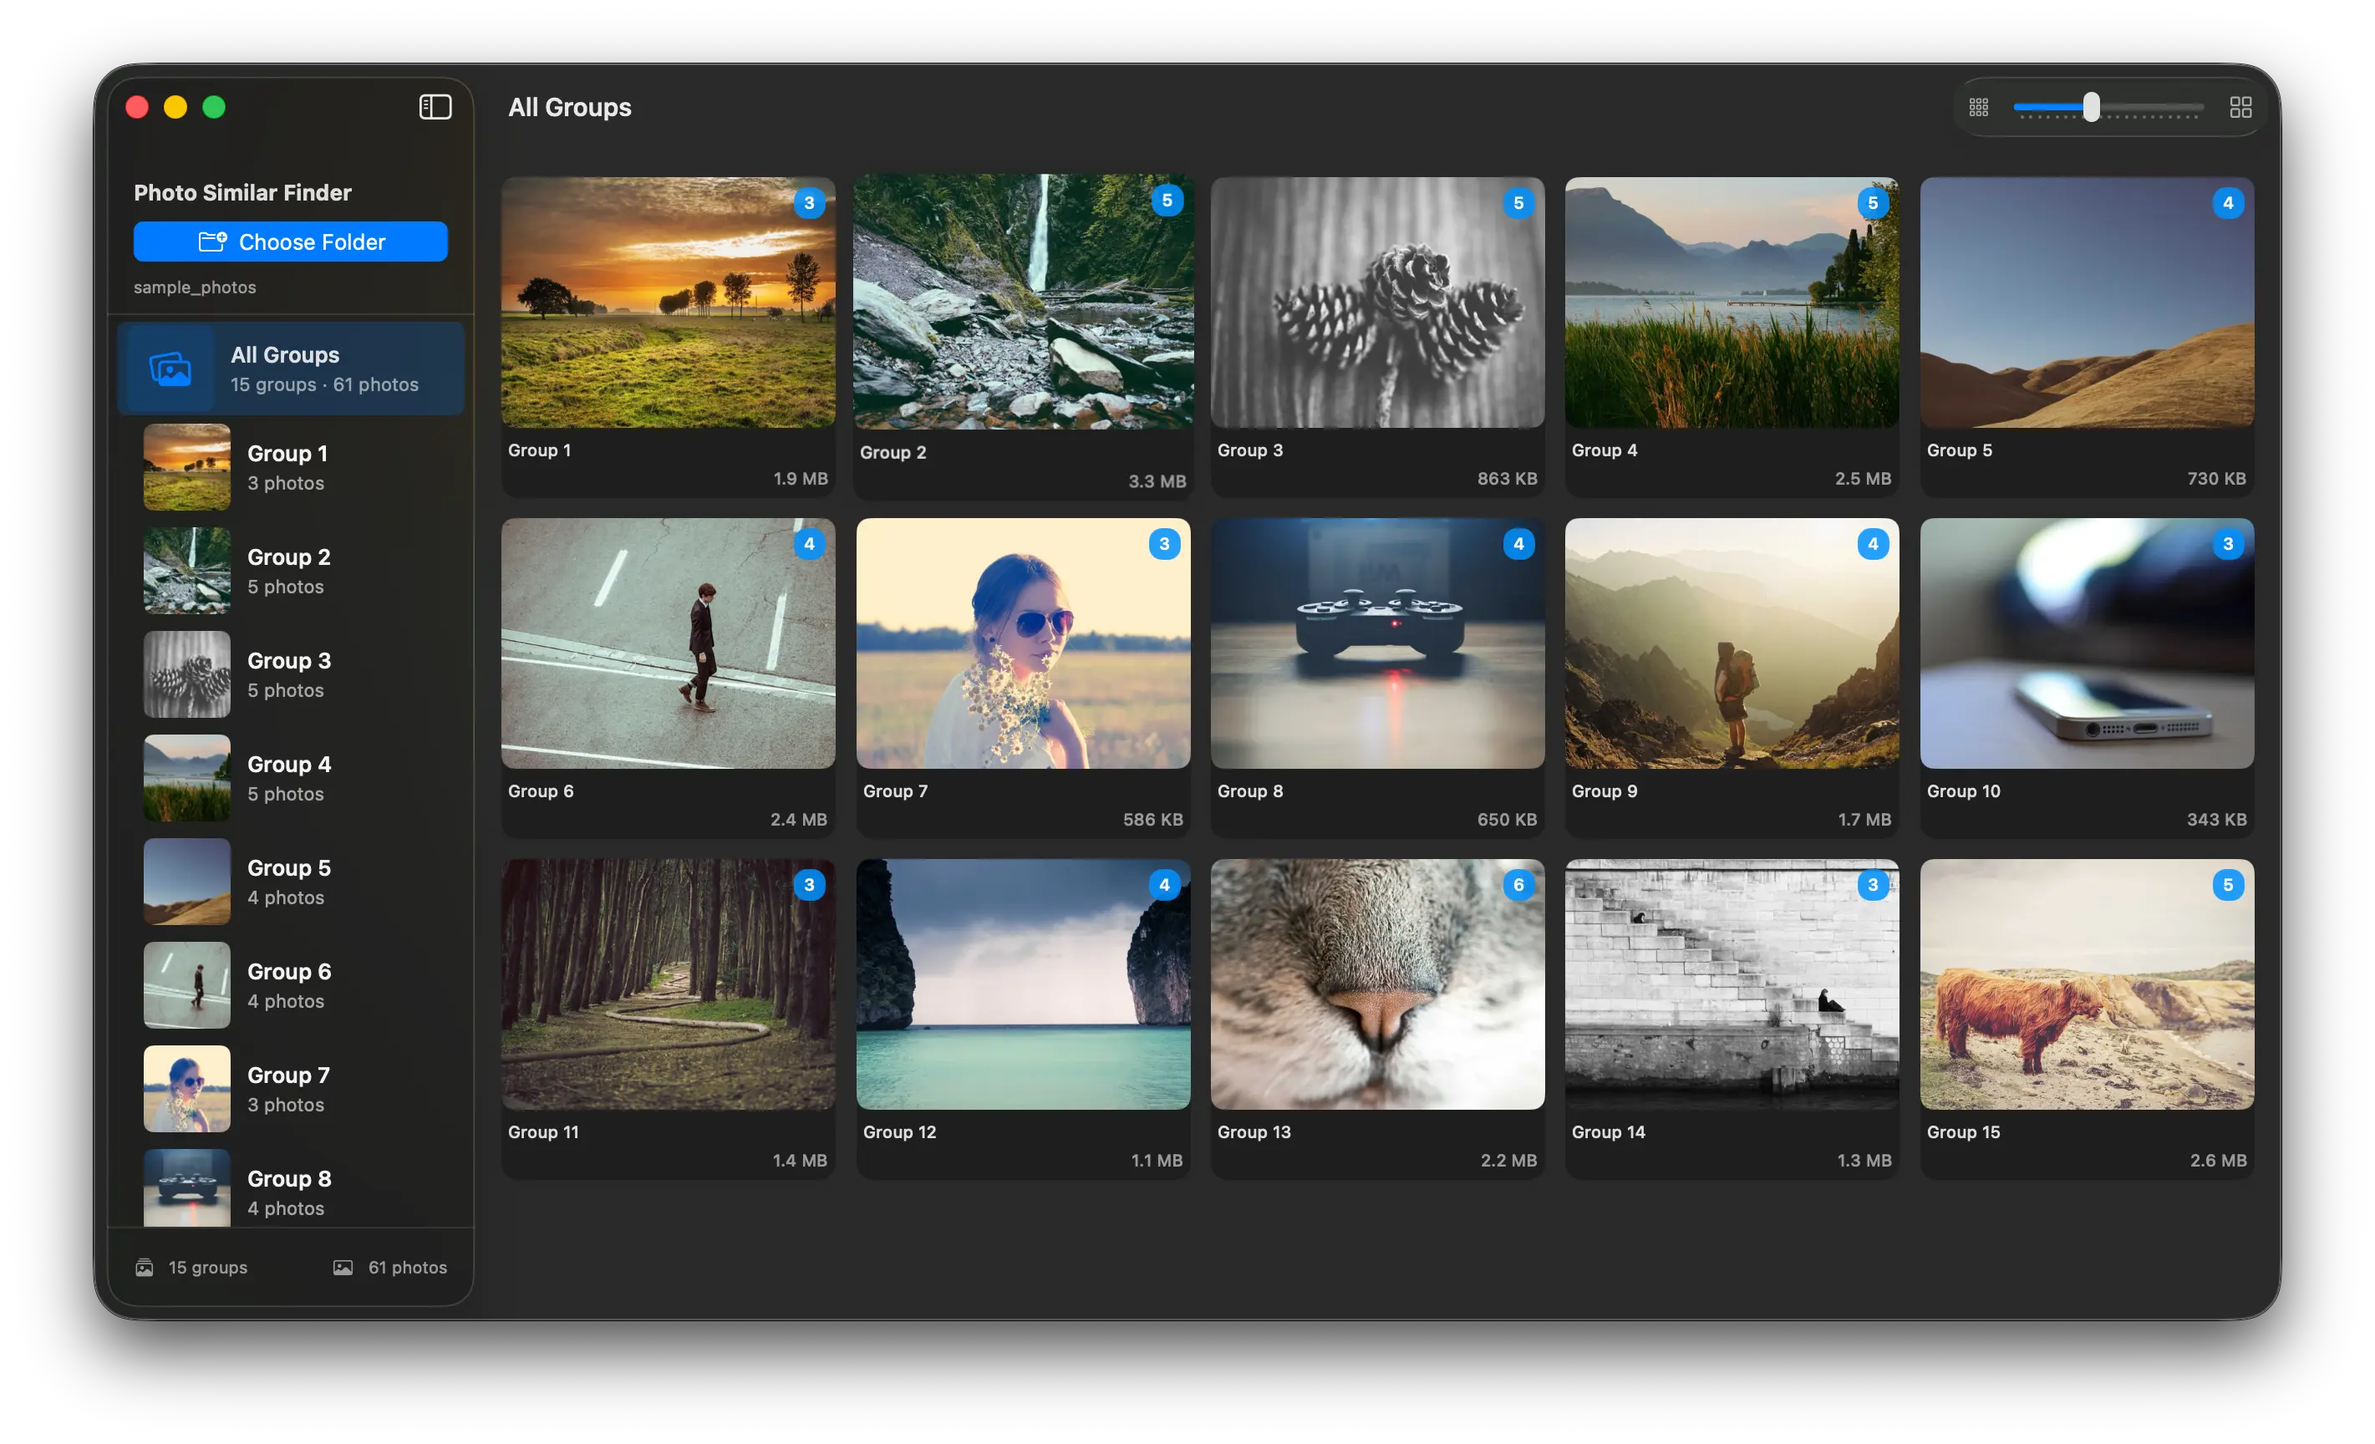
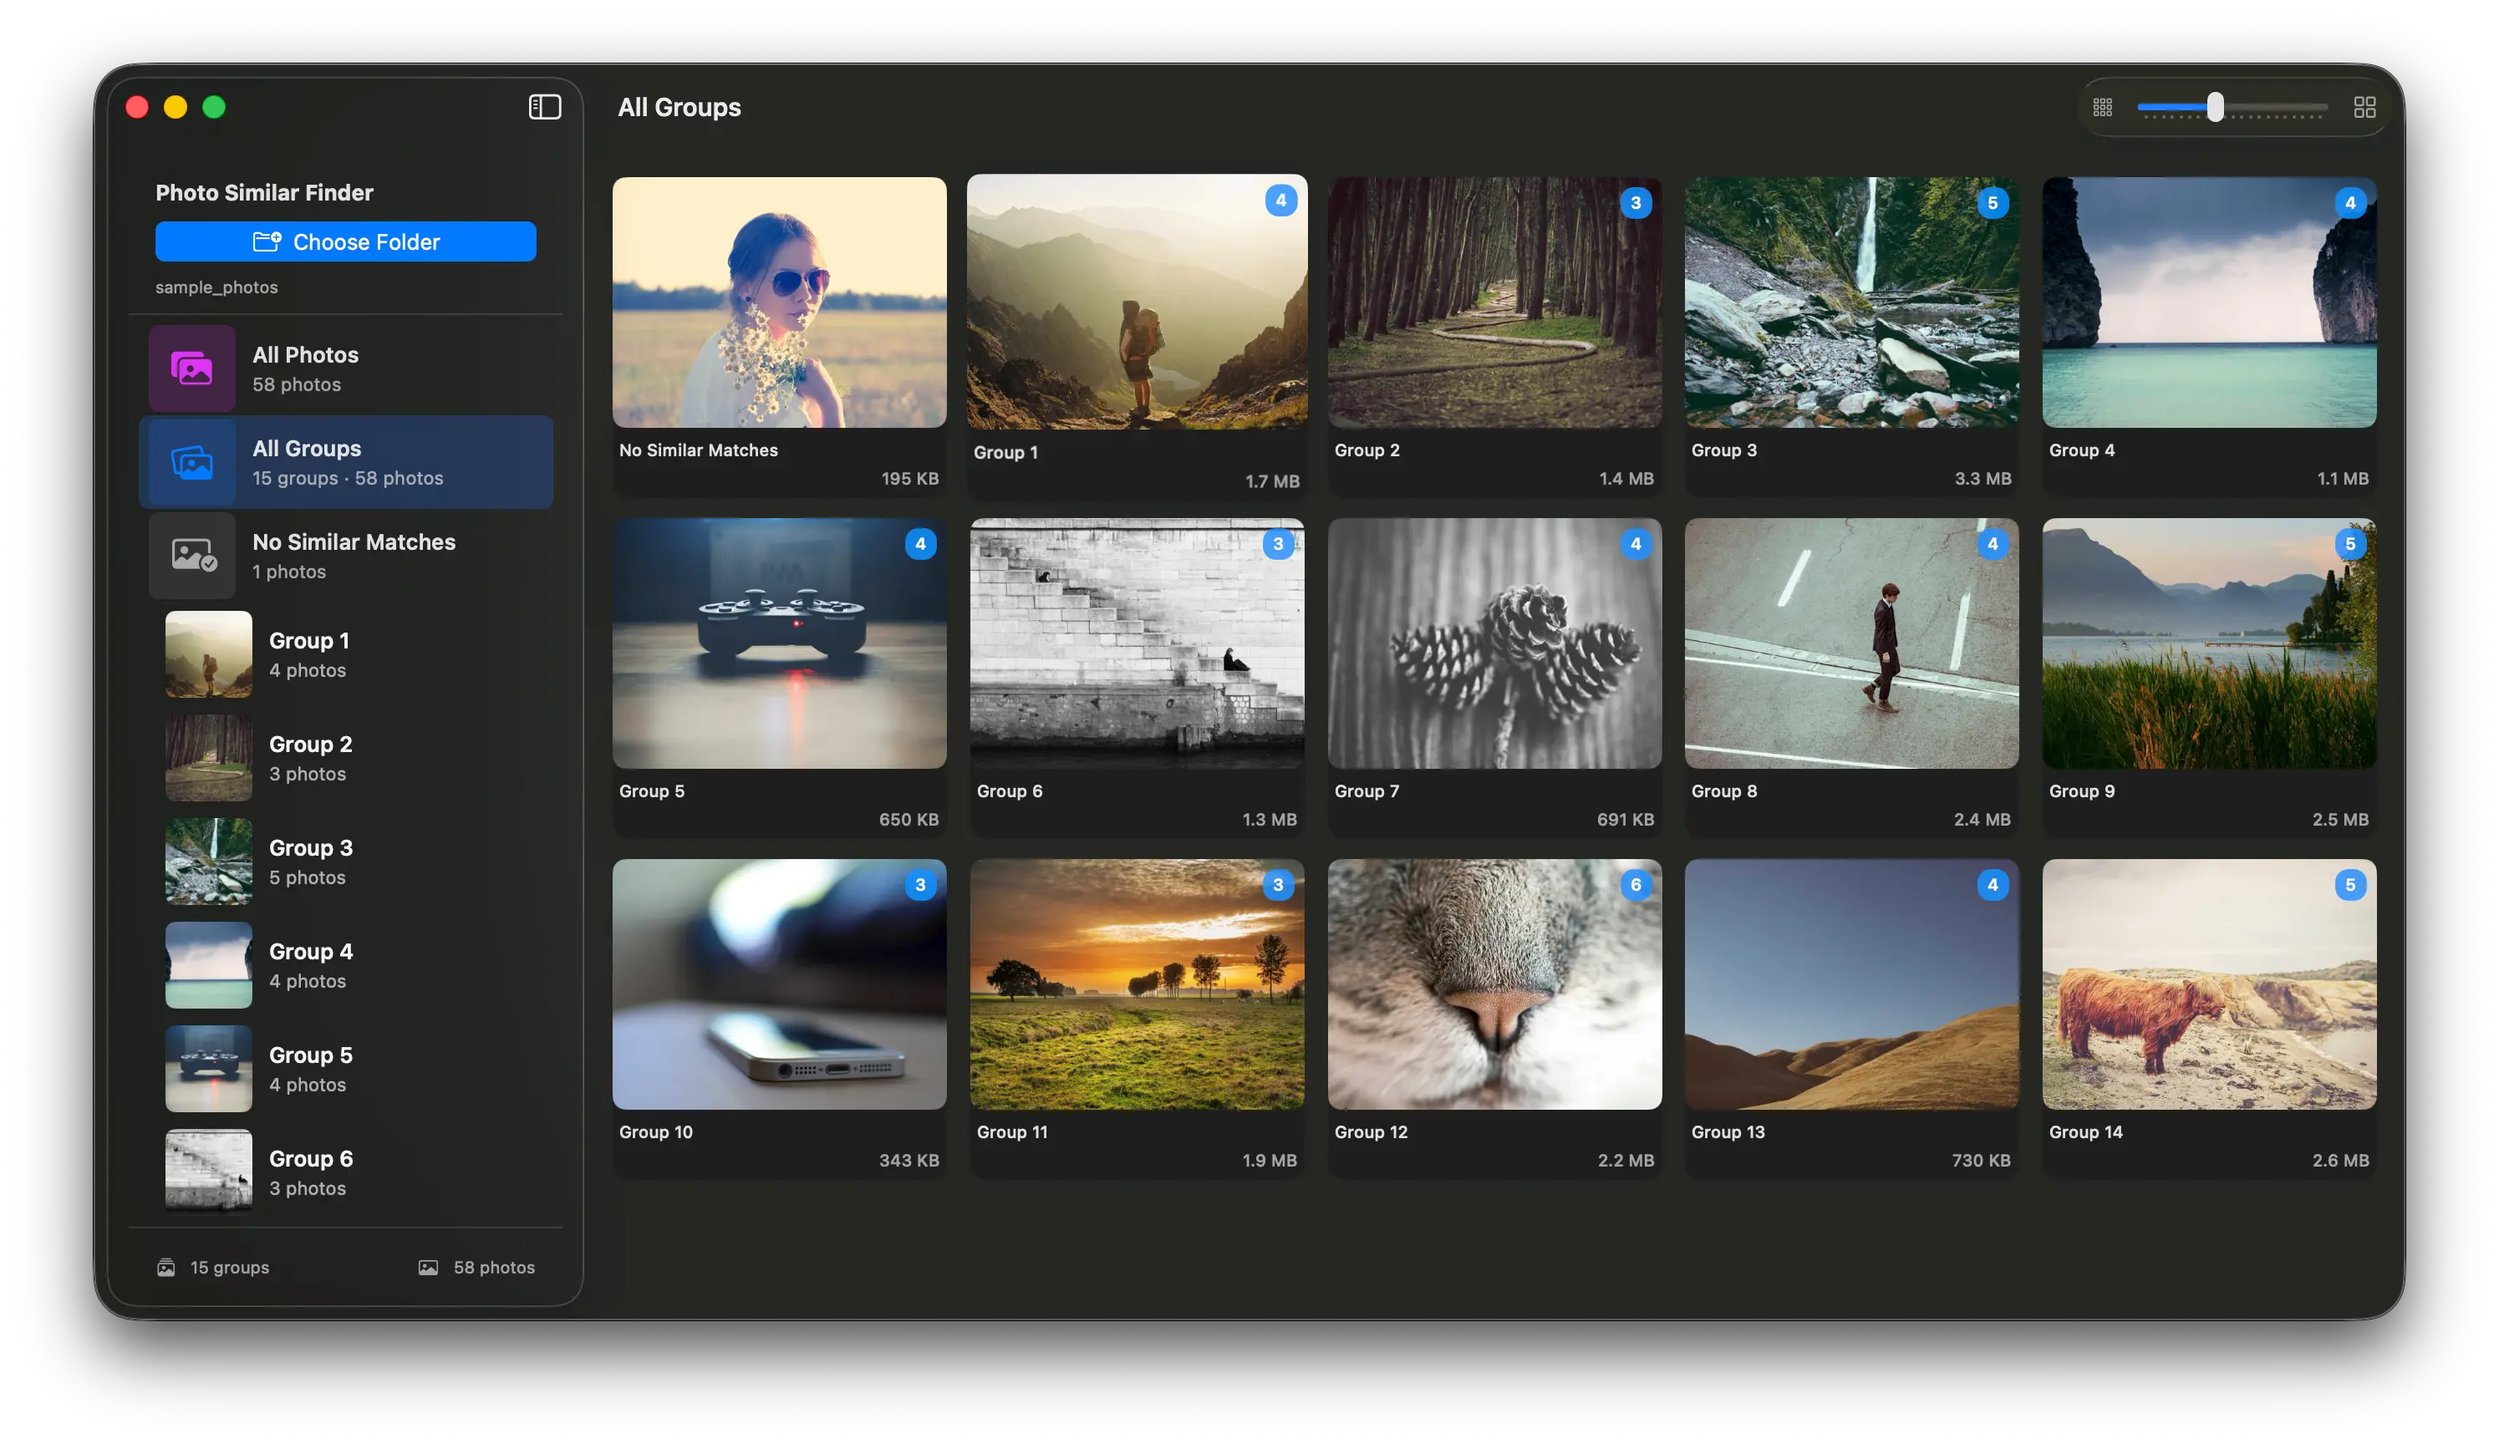
Add all photos view

diff --git a/PhotoSimilarFinder/ContentView.swift b/PhotoSimilarFinder/ContentView.swift
@@ -58,6 +58,8 @@ struct ContentView: View {
         } detail: {
             if state.groups.isEmpty && !state.isScanning {
                 EmptyStateView(state: state)
+            } else if state.showAllPhotos {
+                AllPhotosView(state: state)
             } else if let idx = state.selectedGroupIndex, idx < state.groups.count {
                 GroupDetailView(state: state, groupIndex: idx)
             } else {
@@ -124,9 +126,43 @@ struct SidebarView: View {
 
             // Group list
             if !state.groups.isEmpty {
-                // "All Photos" row — selected by default; shows the group overview grid
+                // "All Photos" row — shows every photo in the folder
+                Button {
+                    state.showAllPhotos = true
+                    state.selectedGroupIndex = nil
+                } label: {
+                    HStack(spacing: 10) {
+                        Image(systemName: "photo.fill.on.rectangle.fill")
+                            .font(.system(size: 20))
+                            .frame(width: 52, height: 52)
+                            .background(Color.purple.opacity(0.15))
+                            .cornerRadius(6)
+                            .foregroundColor(.purple)
+                        VStack(alignment: .leading, spacing: 3) {
+                            Text("All Photos")
+                                .font(.system(size: 13, weight: .semibold))
+                            Text("\(state.totalShots) photos")
+                                .font(.system(size: 11))
+                                .foregroundColor(.secondary)
+                        }
+                        Spacer()
+                    }
+                    .padding(.vertical, 2)
+                    .padding(.horizontal, 6)
+                    .contentShape(Rectangle())
+                }
+                .buttonStyle(.plain)
+                .background(
+                    RoundedRectangle(cornerRadius: 6)
+                        .fill(state.showAllPhotos ? Color.purple.opacity(0.2) : Color.clear)
+                )
+                .padding(.horizontal, 6)
+                .padding(.top, 4)
+
+                // "All Groups" row — shows the group overview grid
                 Button {
                     state.selectedGroupIndex = nil
+                    state.showAllPhotos = false
                 } label: {
                     HStack(spacing: 10) {
                         Image(systemName: "photo.on.rectangle.angled")
@@ -151,10 +187,44 @@ struct SidebarView: View {
                 .buttonStyle(.plain)
                 .background(
                     RoundedRectangle(cornerRadius: 6)
-                        .fill(state.selectedGroupIndex == nil ? Color.accentColor.opacity(0.2) : Color.clear)
+                        .fill(!state.showAllPhotos && state.selectedGroupIndex == nil ? Color.accentColor.opacity(0.2) : Color.clear)
                 )
                 .padding(.horizontal, 6)
-                .padding(.top, 4)
+
+                // "No Similar Matches" row — shown at same level as All Groups if present
+                if let ungroupedIndex = state.groups.indices.first(where: { state.groups[$0].groupLabel.hasPrefix("No Similar") }) {
+                    let ungrouped = state.groups[ungroupedIndex]
+                    Button {
+                        state.showAllPhotos = false
+                        state.selectedGroupIndex = ungroupedIndex
+                    } label: {
+                        HStack(spacing: 10) {
+                            Image(systemName: "photo.badge.checkmark")
+                                .font(.system(size: 20))
+                                .frame(width: 52, height: 52)
+                                .background(Color.secondary.opacity(0.12))
+                                .cornerRadius(6)
+                                .foregroundColor(.secondary)
+                            VStack(alignment: .leading, spacing: 3) {
+                                Text("No Similar Matches")
+                                    .font(.system(size: 13, weight: .semibold))
+                                Text("\(ungrouped.displaySlots.count) photos")
+                                    .font(.system(size: 11))
+                                    .foregroundColor(.secondary)
+                            }
+                            Spacer()
+                        }
+                        .padding(.vertical, 2)
+                        .padding(.horizontal, 6)
+                        .contentShape(Rectangle())
+                    }
+                    .buttonStyle(.plain)
+                    .background(
+                        RoundedRectangle(cornerRadius: 6)
+                            .fill(state.selectedGroupIndex == ungroupedIndex ? Color.accentColor.opacity(0.2) : Color.clear)
+                    )
+                    .padding(.horizontal, 6)
+                }
 
                 GroupListView(state: state)
             } else if state.isScanning {
@@ -221,22 +291,22 @@ struct GroupListView: View {
     var body: some View {
         List(selection: Binding(
             get: { state.selectedGroupIndex },
-            set: { state.selectedGroupIndex = $0 }
+            set: { state.selectedGroupIndex = $0; if $0 != nil { state.showAllPhotos = false } }
         )) {
             ForEach(Array(state.groups.enumerated()), id: \.offset) { index, group in
-                GroupListRow(group: group, index: index)
-                    .tag(index)
-                    .listRowInsets(EdgeInsets(top: 3, leading: 6, bottom: 3, trailing: 6))
-                    // single click — select group (detail panel updates automatically)
-                    .onTapGesture(count: 1) {
-                        state.selectedGroupIndex = index
-                    }
-                    // double click — open full preview window
-                    .simultaneousGesture(
-                        TapGesture(count: 2).onEnded {
-                            state.openPreview(groupIndex: index)
+                if !group.groupLabel.hasPrefix("No Similar") {
+                    GroupListRow(group: group, index: index)
+                        .tag(index)
+                        .listRowInsets(EdgeInsets(top: 3, leading: 6, bottom: 3, trailing: 6))
+                        .onTapGesture(count: 1) {
+                            state.selectedGroupIndex = index
                         }
-                    )
+                        .simultaneousGesture(
+                            TapGesture(count: 2).onEnded {
+                                state.openPreview(groupIndex: index)
+                            }
+                        )
+                }
             }
         }
         .listStyle(.sidebar)
@@ -256,7 +326,7 @@ struct GroupListRow: View {
                 .clipped()
 
             VStack(alignment: .leading, spacing: 3) {
-                Text("Group \(index + 1)")
+                Text(group.groupLabel.hasPrefix("No Similar") ? group.groupLabel : "Group \(index)")
                     .font(.system(size: 13, weight: .semibold))
                     .lineLimit(1)
 

diff --git a/PhotoSimilarFinder/GroupGridView.swift b/PhotoSimilarFinder/GroupGridView.swift
@@ -126,7 +126,7 @@ struct GroupCardView: View {
 
             // Label
             VStack(alignment: .leading, spacing: 2) {
-                Text("Group \(groupIndex + 1)")
+                Text(group.groupLabel.hasPrefix("No Similar") ? group.groupLabel : "Group \(groupIndex)")
                     .font(.caption.bold())
                     .lineLimit(1)
                     .truncationMode(.middle)
@@ -186,7 +186,7 @@ struct GroupDetailView: View {
             }
             .padding(20)
         }
-        .navigationTitle("Group \(groupIndex + 1)")
+        .navigationTitle(group.groupLabel.hasPrefix("No Similar") ? group.groupLabel : "Group \(groupIndex)")
         .navigationSubtitle("\(group.displaySlots.count) photos  ·  \(formatBytes(group.totalSize))")
         .toolbar {
             ToolbarItemGroup(placement: .navigation) {
@@ -324,6 +324,43 @@ struct GroupDetailCard: View {
         .onTapGesture { onTap() }
         .task(id: slot.primaryFile.url) {
             thumb = await ImageProcessor.loadThumbnail(url: slot.primaryFile.url, size: 320)
+        }
+    }
+}
+
+// MARK: - All Photos View
+
+struct AllPhotosView: View {
+    @ObservedObject var state: AppState
+
+    private var columns: [GridItem] {
+        [GridItem(.adaptive(minimum: state.thumbnailSize, maximum: state.thumbnailSize * 1.3), spacing: 16)]
+    }
+
+    /// All display slots across all groups, sorted by filename
+    private var allEntries: [(groupIndex: Int, slot: DisplaySlot)] {
+        state.groups.enumerated().flatMap { (gi, group) in
+            group.displaySlots.map { (groupIndex: gi, slot: $0) }
+        }.sorted { $0.slot.primaryFile.filename.localizedStandardCompare($1.slot.primaryFile.filename) == .orderedAscending }
+    }
+
+    var body: some View {
+        ScrollView {
+            LazyVGrid(columns: columns, spacing: 16) {
+                ForEach(allEntries, id: \.slot.id) { entry in
+                    GroupDetailCard(slot: entry.slot, size: state.thumbnailSize) {
+                        state.openPreview(groupIndex: entry.groupIndex, fileIndex: entry.slot.fileIndex)
+                    }
+                }
+            }
+            .padding(20)
+        }
+        .navigationTitle("All Photos")
+        .navigationSubtitle("\(allEntries.count) photos")
+        .toolbar {
+            ToolbarItem(placement: .automatic) {
+                ThumbnailSizeSlider(thumbnailSize: $state.thumbnailSize)
+            }
         }
     }
 }

diff --git a/PhotoSimilarFinder/Models.swift b/PhotoSimilarFinder/Models.swift
@@ -190,8 +190,23 @@ class ImageScanner {
             }
             .sorted { $0.bestScore > $1.bestScore }
 
+        // Collect all shots that were not grouped (cluster size == 1) into a single "Ungrouped" group
+        let ungroupedFiles: [ImageFile] = clusterIndices
+            .filter { $0.count == 1 }
+            .flatMap { shots[$0[0]].allFiles }
+            .sorted { $0.filename.localizedStandardCompare($1.filename) == .orderedAscending }
+
+        var result = groups
+        if !ungroupedFiles.isEmpty {
+            result.insert(ImageGroup(
+                files: ungroupedFiles,
+                groupLabel: "No Similar Matches",
+                bestScore: 0
+            ), at: 0)
+        }
+
         await progress(1.0, "")
-        return groups
+        return result
     }
 
     // MARK: - Private helpers

diff --git a/PhotoSimilarFinder/AppState.swift b/PhotoSimilarFinder/AppState.swift
@@ -22,6 +22,9 @@ class AppState: ObservableObject {
     // Grid thumbnail size (shared across all grid views)
     @Published var thumbnailSize: CGFloat = 200
 
+    // Navigation state for All Photos view
+    @Published var showAllPhotos: Bool = true
+
     /// Number of photos (unique stems) marked for deletion.
     /// 1 JPG + 1 CR3 with the same name = 1 photo
     var totalMarked: Int {
